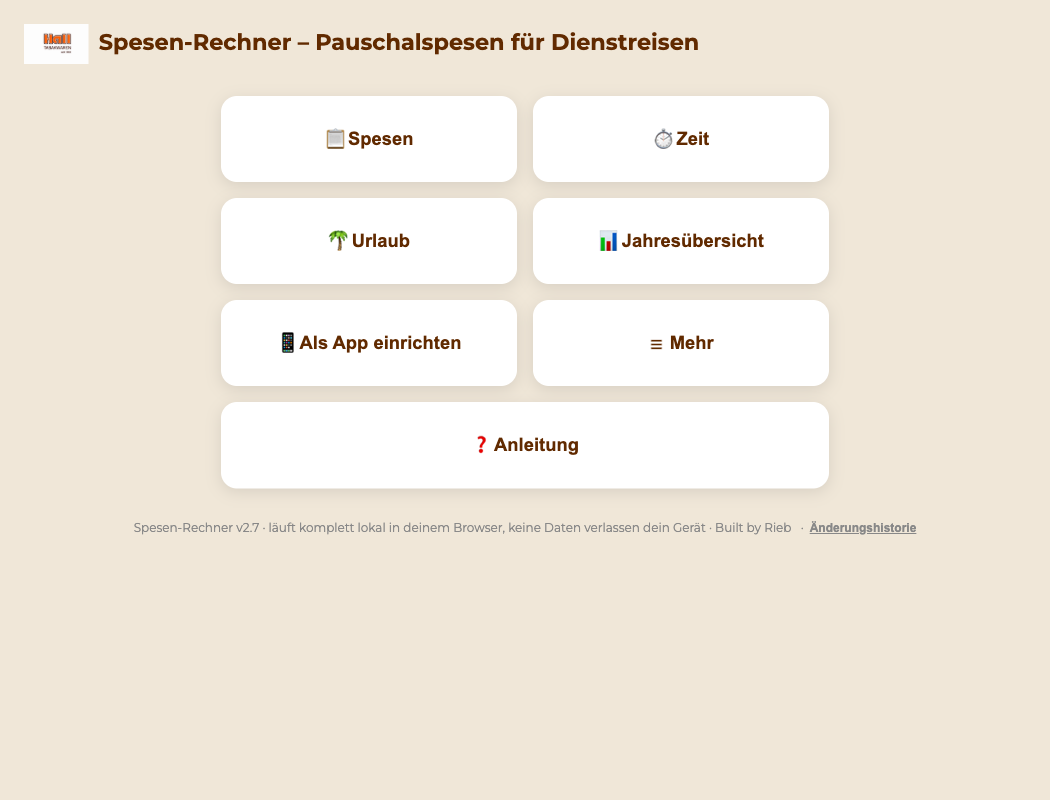
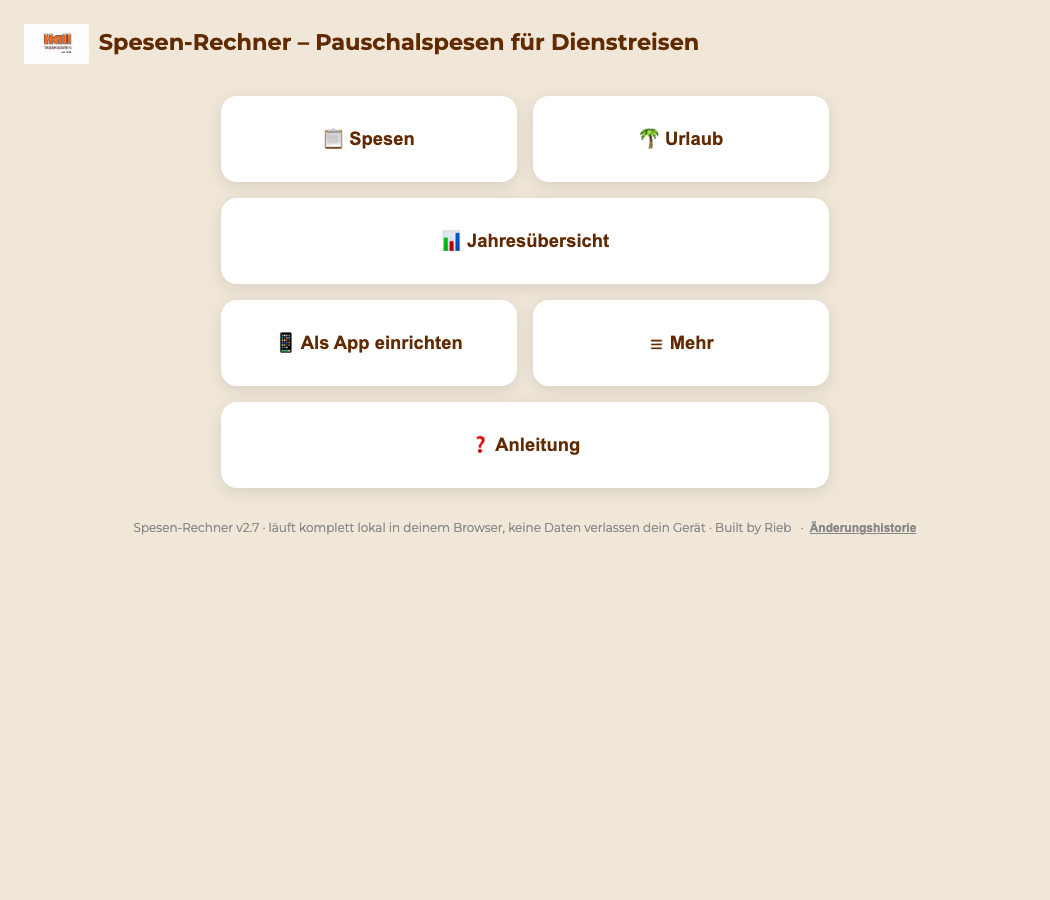
Anleitung ohne persönliche Daten, Zeit-Kachel raus, glatte Zeiten (v2.8)
Auf Rückmeldung von Mirko drei Korrekturen:

1. Screenshots in anleitung-bilder/ (kachel-startseite, toolbar, einstellungen,
   mehr-panel) neu mit einem generischen "Max Mustermann"-Testprofil
   aufgenommen statt mit dem echten Namen "Mirko Rieb" - die Anleitung ist für
   alle Kollegen, nicht nur für einen. Auch die letzten zwei Namensnennungen im
   Anleitung.html-Fließtext sowie im App-eigenen Changelog-Eintrag entfernt und
   durch eine neutrale Beschreibung ersetzt ("nur für einen einzelnen, intern
   hinterlegten Mitarbeiter sichtbar").

2. Die "⏱ Zeit"-Kachel/-Funktion komplett aus Anleitung.html entfernt (Listen-
   eintrag in Schritt 1, Werkzeugleisten-Erklärung, kompletter Abschnitt
   "Extra: Arbeitszeit erfassen"), da sie ohnehin nur für einen einzelnen
   Mitarbeiter sichtbar ist - die Leser sollen gar nicht erst auf die Idee
   kommen, dass ihnen etwas fehlt. Zugehörige Bilder zeit-tab.png und
   arbeitszeit.png entfernt (nirgends mehr referenziert).

3. "Zeiten automatisch variieren" (Stammdaten) erzeugt Abfahrt/Ankunft jetzt
   immer auf glatten 5-Minuten-Marken (viertel vor/nach, halb, zehn vor usw.)
   statt auf krummen Minutenzahlen wie :07 oder :23 - alte deround()-Funktion
   (erzeugte bewusst UNglatte Werte) durch roundToClean() ersetzt. Mit 3600
   simulierten Tagen über 5 Jahre und 3 Startzeiten geprüft: 0 unglatte
   Minuten, Tagesstunden bleiben zuverlässig im vorgegebenen Rahmen
[…]

diff --git a/Anleitung.html b/Anleitung.html
@@ -98,12 +98,11 @@ Alles läuft im Browser, nichts muss installiert werden.</p>
 <h2>1. Loslegen: Kachel-Startseite &amp; Werkzeugleiste</h2>
 <div class="step">
   <p>Nach dem Öffnen (bzw. nach dem Einrichtungsassistenten) landet man immer zuerst auf der
-     <b>Kachel-Startseite</b> mit den Hauptbereichen zur Auswahl:</p>
-  <img src="anleitung-bilder/kachel-startseite.png" alt="Kachel-Startseite mit allen Hauptbereichen">
+     <b>Kachel-Startseite</b> mit den Hauptbereichen zur Auswahl (Screenshots hier mit einem
+     Beispiel-Namen aufgenommen, nicht mit echten Mitarbeiterdaten):</p>
+  <img src="anleitung-bilder/kachel-startseite.png" alt="Kachel-Startseite mit den Hauptbereichen (Beispielansicht)">
   <ul>
     <li><b>📋 Spesen</b> – der eigentliche Spesennachweis: Stammdaten und die Tage-Tabelle (siehe Schritt 2 und 3)</li>
-    <li><b>⏱ Zeit</b> – eigene Stechuhr mit Überstunden-Konto (siehe „Extra: Arbeitszeit erfassen"). <b>Nur sichtbar,
-        wenn als Name exakt „Mirko Rieb" hinterlegt ist</b> – bei jedem anderen Namen erscheint diese Kachel nicht.</li>
     <li><b>🌴 Urlaub</b> – Jahreskalender mit Urlaubsanspruch und Resttagen (siehe „Extra: Urlaubskalender")</li>
     <li><b>📊 Jahresübersicht</b> – Monats- und Jahressummen auf einen Blick, inkl. Balkendiagramm (siehe Schritt 8)</li>
     <li><b>📱 Als App einrichten</b> – Anleitung zum Einrichten als App auf dem Handy (siehe „Extra: Auf dem Handy –
@@ -129,10 +128,6 @@ Alles läuft im Browser, nichts muss installiert werden.</p>
         und markiert den Monat automatisch als eingereicht (siehe Schritt 10)</li>
     <li><b>📄 CSV (für Steuer)</b> – exportiert den Monat zusätzlich als CSV-Datei, praktisch für die eigene Steuerablage</li>
   </ul>
-
-  <p>Auf <b>⏱ Zeit</b> zeigt die Werkzeugleiste stattdessen nur einen einzigen Knopf – <b>Start/Stopp</b> der
-     Stechuhr, synchron mit dem Knopf weiter unten im Tab:</p>
-  <img src="anleitung-bilder/zeit-tab.png" alt="Werkzeugleiste im Zeit-Tab mit Start/Stopp-Knopf">
 
   <p>Auf allen anderen Tabs (<b>Urlaub, Jahresübersicht, Anleitung, Als App einrichten, Mehr</b>) gibt es
      <b>keine Werkzeugleiste</b> – dort braucht es keine zusätzlichen Knöpfe.</p>
@@ -307,98 +302,6 @@ Alles läuft im Browser, nichts muss installiert werden.</p>
   <img src="anleitung-bilder/jahresuebersicht-beispiel.png" alt="Beispiel einer Jahresübersicht">
 </div>
 
-<h2>Extra: ⏱ Arbeitszeit erfassen (optional)</h2>
-<div class="step">
-  <p>Über die Kachel/den Tab <b>⏱ Zeit</b> öffnet sich eine eigene Stechuhr mit
-     Überstunden-Konto, mit einem eigenen Start/Stopp-Knopf in der Werkzeugleiste. Solange sie geöffnet ist, tritt das Spesenblatt in den Hintergrund – so kann man
-     beim Stempeln nicht versehentlich in der Abrechnung tippen.</p>
-
-  <div class="hinweis"><b>Nur für Mirko sichtbar:</b> Die Kachel/der Tab „⏱ Zeit" erscheint ausschließlich,
-    wenn als Name exakt „Mirko Rieb" hinterlegt ist (siehe Schritt 2) – bei jedem anderen Namen fehlt dieser
-    Bereich komplett, auch in der Kachel-Startseite.</div>
-
-  <div class="hinweis"><b>Wichtig:</b> Diese Funktion ist <b>völlig getrennt</b> von der Spesen-Abrechnung.
-    Gestempelte Zeiten werden <b>nicht</b> in die Spesen-Tabelle übernommen und erscheinen <b>nicht</b> im PDF.
-    Die Abrechnung kann sich durch das Stempeln also nie verändern. Die Daten liegen wie alles andere lokal
-    im eigenen Browser und sind im normalen Backup (Schritt 9) enthalten.</div>
-
-  <img src="anleitung-bilder/arbeitszeit.png" alt="Arbeitszeit-Erfassung mit Monats- und Jahresübersicht">
-
-  <p><b>Zeit erfassen – drei Wege, alle führen in denselben Kalender:</b></p>
-  <ul>
-    <li><b>Stempeln</b> – auf <b>Arbeitsbeginn</b> tippen, die Uhr läuft; am Ende auf <b>Feierabend</b>.
-        Die Uhr läuft auch weiter, wenn man das Tool zwischendurch schließt.</li>
-    <li><b>✍ Zeiten von Hand eintragen</b> – für vergessenes Stempeln oder zum Nachpflegen: Datum,
-        Arbeitsbeginn und Feierabend eingeben (z.B. 6:00 bis 15:30). Schon beim Tippen wird angezeigt,
-        wie viele Stunden das ergibt und wie viel über oder unter dem Soll. Mit
-        <b>„Eintragen &amp; nächster Tag"</b> springt die Maske gleich auf den Folgetag weiter und
-        behält die Zeiten – so ist eine ganze Woche in wenigen Klicks nachgetragen.</li>
-    <li><b>⏰ Zeiten für alle Tage</b> – füllt einen <b>ganzen Monat auf einmal</b> mit denselben Zeiten.
-        Gedacht für alle, die fast täglich gleich anfangen und aufhören (vor allem Monteure): einmal
-        06:00–15:30 eintragen statt zwanzig Mal. Danach im Kalender nur noch die Ausnahmen antippen.
-        Siehe unten <b>„Ganzen Monat auf einmal füllen"</b>.</li>
-  </ul>
-  <div class="hinweis">Keiner dieser Wege ist Pflicht. Wer lieber jeden Tag einzeln einträgt, macht
-    genau das weiter – die drei Wege stehen nebeneinander und lassen sich beliebig mischen.</div>
-  <div class="hinweis">Stempelungen unter einer Minute werden verworfen – das ist immer ein Fehlgriff.
-    Ein wirklich kurzer Tag lässt sich über „Zeiten von Hand eintragen" erfassen; eine Untergrenze gibt es
-    dabei nicht.</div>
-
-  <p><b>Pause:</b> Im Fenster eines Tages wird angehakt, ob es an <b>diesem einen Tag</b> eine Pause gab
-     (Tag im Kalender antippen).</p>
-  <ul>
-    <li><b>Haken gesetzt</b> – die gesetzliche Pause wird abgezogen: 30 Minuten ab mehr als 6 Stunden,
-        45 Minuten ab mehr als 9 Stunden (§ 4 Arbeitszeitgesetz). Daneben steht, wie viel abgezogen wurde.</li>
-    <li><b>Haken leer</b> – es wird <b>nichts</b> abgezogen. Richtig, wenn tatsächlich durchgearbeitet
-        wurde: eine Pause, die es nicht gab, darf nicht abgezogen werden.</li>
-    <li>Ein <b>⚠</b> erscheint am Tag im Kalender, wenn über 6 Stunden ohne Pause gearbeitet wurde. Es wird
-        trotzdem nichts abgezogen – das Zeichen hält nur fest, dass an dem Tag keine Pause möglich war.
-        Nach § 4 Satz 2 ArbZG darf länger als sechs Stunden nicht ohne Ruhepause gearbeitet werden.</li>
-  </ul>
-  <p>Unter <b>⚙ Vorgaben</b> wird eingestellt, wie lang ein regulärer Arbeitstag ist (Vorgabe 8,5 Stunden)
-     und ob neue Tage mit oder ohne Pause angelegt werden. Das ist nur die Voreinstellung – jeder einzelne
-     Tag lässt sich beim Antippen davon abweichend umstellen.</p>
-
-  <p><b>Der Monatskalender:</b></p>
-  <ul>
-    <li>Jeder Tag zeigt seine Arbeitszeit. <b>Grün</b> heißt über dem Soll, <b>rot</b> darunter, leer heißt
-        nichts erfasst. Wochenenden sind grau, Feiertage orange hinterlegt.</li>
-    <li><b>Tag antippen</b> öffnet ihn: eintragen, ändern oder löschen. Ist der Tag schon erfasst, wird er
-        zum <b>Ändern</b> geladen – es entsteht kein zweiter Eintrag, der doppelt zählen würde.</li>
-    <li>Mit <b>‹ ›</b> geht es einen Monat vor oder zurück; über das Auswahlfeld sind die letzten
-        zwölf Monate direkt erreichbar – auch solche, in denen noch nichts erfasst ist.</li>
-    <li>Ein <b>✱</b> am Tag bedeutet: an diesem Tag gibt es <b>mehrere</b> Einträge (z.B. geteilter Dienst).
-        Beim Antippen stehen sie alle zur Auswahl.</li>
-    <li>Unter dem Kalender stehen die <b>Monatssumme</b> und die <b>Gesamtsumme</b> über alle Monate</li>
-    <li>Die <b>Jahresübersicht</b> zeigt alle zwölf Monate mit Balkendiagramm – grün nach oben für
-        Überstunden, rot nach unten für Minusstunden</li>
-    <li><b>📋 Als Text kopieren</b> legt den ganzen Monat in die Zwischenablage – praktisch zum
-        Weiterleiten oder als Beleg</li>
-  </ul>
-  <div class="hinweis">Nur Tage mit erfasster Zeit zählen. Ein Tag, an dem nicht gestempelt wurde,
-    erzeugt <b>kein</b> Minus.</div>
-
-  <h3>⏰ Ganzen Monat auf einmal füllen</h3>
-  <p>Wer fast jeden Tag dieselben Zeiten hat, muss sie nicht zwanzig Mal eintippen. Der Knopf
-     <b>⏰ Zeiten für alle Tage</b> in der Arbeitszeit-Ansicht fragt nach Monat, Arbeitsbeginn, Feierabend
-     und Pause – und legt für jeden Werktag einen Eintrag an.</p>
-  <p>Vor dem Eintragen steht genau da, was passieren wird, zum Beispiel:</p>
-  <div class="hinweis" style="font-family:inherit;">Es werden <b>9 Tage</b> eingetragen (03.08. bis 14.08.),
-    je <b>06:00–15:30</b> = <b>8:45 Std.</b> (9:30 minus 45 Min. Pause) pro Tag · <b>+2:15</b> Überstunden
-    gesamt.<br>Übersprungen: <b>1 bereits erfasst</b> · 10 Wochenende · 11 noch in der Zukunft.</div>
-  <p><b>Drei Dinge werden bewusst übersprungen:</b></p>
-  <ul>
-    <li><b>Tage, die schon erfasst sind</b> – egal ob gestempelt oder von Hand. Eine echte gestempelte
-        Zeit wird nie von einer Vorgabe überschrieben.</li>
-    <li><b>Wochenenden und Feiertage</b> – Feiertage richten sich nach dem Bundesland aus den Einstellungen</li>
-    <li><b>Tage in der Zukunft.</b> Die Arbeitszeiterfassung ist ein Nachweis über <b>geleistete</b> Arbeit
-        (§ 16 Abs. 2 Arbeitszeitgesetz), kein Dienstplan. Beim laufenden Monat wird deshalb nur bis heute
-        gefüllt, bei zurückliegenden Monaten der ganze Monat.</li>
-  </ul>
-  <div class="hinweis">Danach lässt sich jeder Tag im Kalender ganz normal antippen und ändern oder löschen.
-    Ein zweiter Durchlauf legt nichts doppelt an – was schon dasteht, bleibt stehen.</div>
-</div>
-
 <h2>Extra: 🌴 Urlaubskalender (optional)</h2>
 <div class="step">
   <p>Über die Kachel/den Tab <b>🌴 Urlaub</b> öffnet sich ein Jahreskalender mit Urlaubskonto.</p>
@@ -560,7 +463,7 @@ Alles läuft im Browser, nichts muss installiert werden.</p>
     sodass sie die vorherige eindeutig ersetzt.</div>
 </div>
 
-<footer>Spesen-Rechner &middot; Built by Rieb &middot; alle bisherigen Neuerungen: „Änderungshistorie" im Fußbereich des Tools</footer>
+<footer>Spesen-Rechner &middot; Built for Hall Tabakwaren &middot; alle bisherigen Neuerungen: „Änderungshistorie" im Fußbereich des Tools</footer>
 
 </body>
 </html>

diff --git a/index.html b/index.html
@@ -777,7 +777,7 @@
     <div class="splash-greeting" id="splashGreeting"></div>
     <div class="splash-month" id="splashMonth"></div>
   </div>
-  <div class="splash-credit">built by Mirko Rieb</div>
+  <div class="splash-credit">built for Hall Tabakwaren</div>
 </div>
 
 <h1 class="no-print"><img src="hall-logo.png" alt="Hall Tabakwaren" style="height:40px; vertical-align:middle; margin-right:10px;"><span data-i18n="h1Title">Spesen-Rechner &ndash; Pauschalspesen für Dienstreisen</span></h1>
@@ -952,9 +952,10 @@
       <input type="checkbox" id="cfgZeitenVariieren" style="width:auto; display:inline-block;" onchange="saveConfig(); renderFormular();">
       Aktivieren – nicht jeden Tag exakt dieselben Zeiten
     </label>
-    <p class="hinweis-text">Erzeugt beim automatischen Ausfüllen für jeden Wochentag leicht <b>unterschiedliche, realistische</b> Zeiten
+    <p class="hinweis-text">Erzeugt beim automatischen Ausfüllen für jeden Wochentag leicht <b>unterschiedliche</b> Zeiten
       bei Abfahrt WP / Ankunft WP – die Tagesstunden liegen dabei immer <b>über 8,5</b> und <b>nie über 10</b> (gelegentlich bis 10),
-      statt jeden Tag exakt dieselben „glatten" Werte. Freitags tendenziell etwas kürzer, wie im echten Alltag.
+      statt jeden Tag exakt dieselben Zeiten. Landet dabei immer auf glatten 5-Minuten-Marken (viertel vor/nach, halb, zehn vor
+      und Ähnliches) statt auf krummen Minutenzahlen. Freitags tendenziell etwas kürzer, wie im echten Alltag.
       Jeder Tag lässt sich weiterhin von Hand überschreiben. <b>Bitte prüfen, dass die Zeiten zu Ihrem tatsächlichen Arbeitstag passen.</b></p>
   </div>
 
@@ -1296,7 +1297,7 @@
 <div id="formular-scroll"><div id="formular"></div></div>
 
 <footer class="no-print">
-  Spesen-Rechner <span id="footerVersion"></span> &middot; läuft komplett lokal in deinem Browser, keine Daten verlassen dein Gerät &middot; Built by Rieb
+  Spesen-Rechner <span id="footerVersion"></span> &middot; läuft komplett lokal in deinem Browser, keine Daten verlassen dein Gerät &middot; Built for Hall Tabakwaren
   <span class="footer-sep">&middot;</span><button class="footer-link" onclick="openChangelogModal()">Änderungshistorie</button>
   <span class="footer-sep chef-only">&middot;</span><button class="footer-link chef-only" onclick="openAuswertungGate()">Auswertung</button>
 </footer>
@@ -1310,7 +1311,7 @@
 
 <script>
 /* ===================== Konfiguration & Speicher ===================== */
-const APP_VERSION = "2.7";
+const APP_VERSION = "2.8";
 
 /* ===== Zeit-Tab nur fuer Mirko sichtbar =====
    Kein Login-System vorhanden - jede/r Kollege/in nutzt die Seite im
@@ -1669,14 +1670,17 @@ function stammLine(label, value, last) {
 }
 
 /* ===================== Zeiten automatisch variieren =====================
-   Erzeugt pro Wochentag leicht unterschiedliche, realistische Zeiten - immer
-   deterministisch aus dem Datum (gleiches Datum => gleiche Zeiten, aendern sich
-   nicht bei jedem Neu-Rendern), aber jeder Tag anders. Angezeigte Tagesstunden
-   liegen strikt ueber 8,5 und nie ueber 10 (gelegentlich bis 10). */
+   Erzeugt pro Wochentag leicht unterschiedliche Zeiten - immer deterministisch
+   aus dem Datum (gleiches Datum => gleiche Zeiten, aendern sich nicht bei jedem
+   Neu-Rendern), aber jeder Tag anders. Angezeigte Tagesstunden liegen strikt
+   ueber 8,5 und nie ueber 10 (gelegentlich bis 10).
+   Auf Wunsch (28.08.2026) landen Abfahrt/Ankunft dabei immer auf glatten
+   5-Minuten-Marken (viertel vor/nach, halb, zehn vor usw.), nie auf krummen
+   Minutenzahlen wie :07 oder :23. */
 function hashStr(s){ let h=2166136261>>>0; for(let i=0;i<s.length;i++){ h^=s.charCodeAt(i); h=Math.imul(h,16777619); } return h>>>0; }
 function mulberry32(a){ return function(){ a=(a+0x6D2B79F5)|0; let t=Math.imul(a^(a>>>15),1|a); t=(t+Math.imul(t^(t>>>7),61|t))^t; return ((t^(t>>>14))>>>0)/4294967296; }; }
 function minToTime(m){ m=((Math.round(m)%1440)+1440)%1440; return pad(Math.floor(m/60))+":"+pad(m%60); }
-function deround(m, r){ const mm=((Math.round(m)%60)+60)%60; if(mm===0||mm===30) m += (r<0.5?-1:1)*(2+Math.floor(r*4)); return Math.round(m); }
+function roundToClean(m){ return Math.round(m / 5) * 5; }
 function variedTimes(iso, startDefault, isMonteur, wd){
   const rnd = mulberry32(hashStr(iso + "|" + (startDefault || "06:00")));
   let H;
@@ -1687,10 +1691,10 @@ function variedTimes(iso, startDefault, isMonteur, wd){
   const base = timeToMinutes(startDefault || "06:00");
   let dep = base + Math.round(rnd()*12 - 6);                 // Abfahrt +/- 6 Minuten
   let arr = dep + (H + 0.5) * 60;                            // 30 Min Pause immer eingerechnet (Fahrer & Monteur)
-  dep = deround(dep, rnd()); arr = deround(arr, rnd());      // "nicht glatt": weg von :00 / :30
+  dep = roundToClean(dep); arr = roundToClean(arr);          // auf glatte 5-Minuten-Marken runden
   let disp = (arr - dep) / 60 - 0.5;                         // angezeigte Stunden (nach Pausenabzug)
-  if (disp > 10)   arr -= Math.round((disp - 10) * 60);
-  if (disp <= 8.5) arr += Math.round((8.56 - disp) * 60);
+  if (disp > 10)   arr -= Math.ceil((disp - 10) * 60 / 5) * 5;   // in 5-Min-Schritten kappen, bleibt glatt
+  if (disp <= 8.5) arr += Math.ceil((8.6 - disp) * 60 / 5) * 5;  // in 5-Min-Schritten anheben, bleibt glatt
   return { abfahrt: minToTime(dep), ankunft: minToTime(arr) };
 }
 function minutesToTime(m) {
@@ -3771,9 +3775,12 @@ function closeModal() {
    Rekonstruiert aus der Versionsgeschichte des Repos, nicht aus dem
    Gedaechtnis: jeder Punkt laesst sich einem Commit zuordnen. */
 const CHANGELOG = [
+  { version: "2.8", date: "31.08.2026", changes: [
+    "🕐 „Zeiten automatisch variieren“ landet jetzt immer auf glatten 5-Minuten-Marken (viertel vor/nach, halb, zehn vor) statt auf krummen Minutenzahlen",
+  ]},
   { version: "2.7", date: "28.08.2026", changes: [
     "📋 Spesen startet jetzt direkt mit den Stammdaten – kein Extra-Klick auf „Spesen bearbeiten“ mehr nötig",
-    "🟢 Neuer Start/Stopp-Knopf für die Stechuhr direkt in der Werkzeugleiste (nur für Mirko sichtbar)",
+    "🟢 Neuer Start/Stopp-Knopf für die Stechuhr direkt in der Werkzeugleiste (nur für einen Mitarbeiter sichtbar)",
     "❓ Anleitung und 📱 Als App einrichten sind jetzt vollwertige Hauptkategorien",
     "☰ Neue Hauptkategorie „Mehr“ bündelt Feedback, QR-Code, Monat abschließen, Archiv, Sprache und Zurücksetzen",
     "📊 „Jahr“ heißt jetzt „Jahresübersicht“ und läuft auf dem Handy nicht mehr über den Bildschirmrand",
@@ -5498,7 +5505,7 @@ oeffneAusAnker();
    neueste Version, ohne selbst "hart neu laden" zu müssen. Alle Daten liegen lokal
    im Browser und gehen dabei NICHT verloren. */
 (function () {
-  const APP_VERSION = "2026-08-28-1"; // bei jeder Änderung zusammen mit version.txt hochzählen
+  const APP_VERSION = "2026-08-31-1"; // bei jeder Änderung zusammen mit version.txt hochzählen
   async function checkForUpdate() {
     try {
       const r = await fetch("version.txt?cb=" + Date.now(), { cache: "no-store" });

diff --git a/sw.js b/sw.js
@@ -34,7 +34,7 @@
    dabei aendern, sonst installiert der Browser den neuen Worker nicht.
 */
 
-const CACHE_VERSION = "2026-08-28-1";
+const CACHE_VERSION = "2026-08-31-1";
 const CACHE_NAME = "hall-spesen-" + CACHE_VERSION;
 
 /* Was beim Installieren mitgenommen wird, damit auch der allererste
